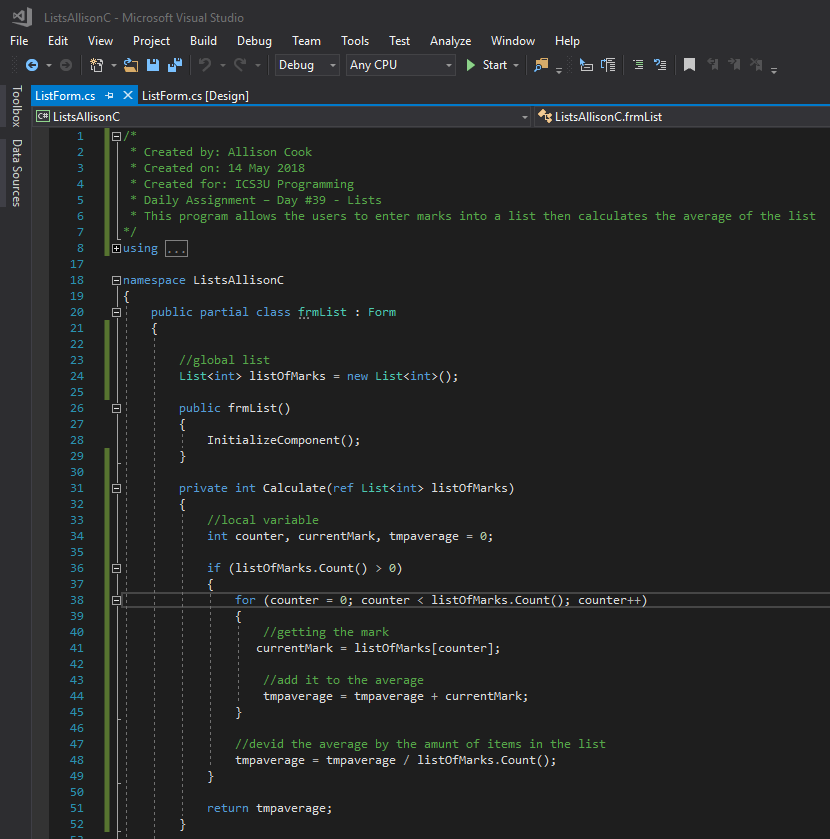
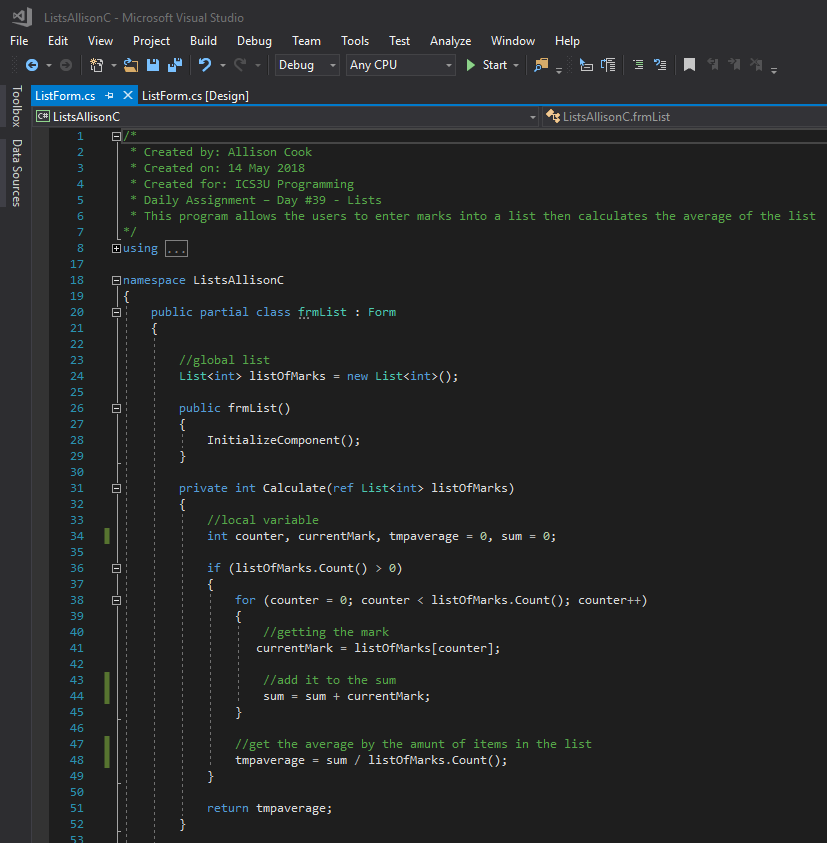
done

diff --git a/ListsAllisonC/ListForm.cs b/ListsAllisonC/ListForm.cs
@@ -31,7 +31,7 @@ namespace ListsAllisonC
         private int Calculate(ref List<int> listOfMarks)
         {
             //local variable
-            int counter, currentMark, tmpaverage = 0;
+            int counter, currentMark, tmpaverage = 0, sum = 0;
 
             if (listOfMarks.Count() > 0)
             {
@@ -40,12 +40,12 @@ namespace ListsAllisonC
                     //getting the mark
                    currentMark = listOfMarks[counter];
 
-                    //add it to the average
-                    tmpaverage = tmpaverage + currentMark;
+                    //add it to the sum
+                    sum = sum + currentMark;
                 }
 
-                //devid the average by the amunt of items in the list
-                tmpaverage = tmpaverage / listOfMarks.Count();
+                //get the average by the amunt of items in the list
+                tmpaverage = sum / listOfMarks.Count();
             }
 
             return tmpaverage;
